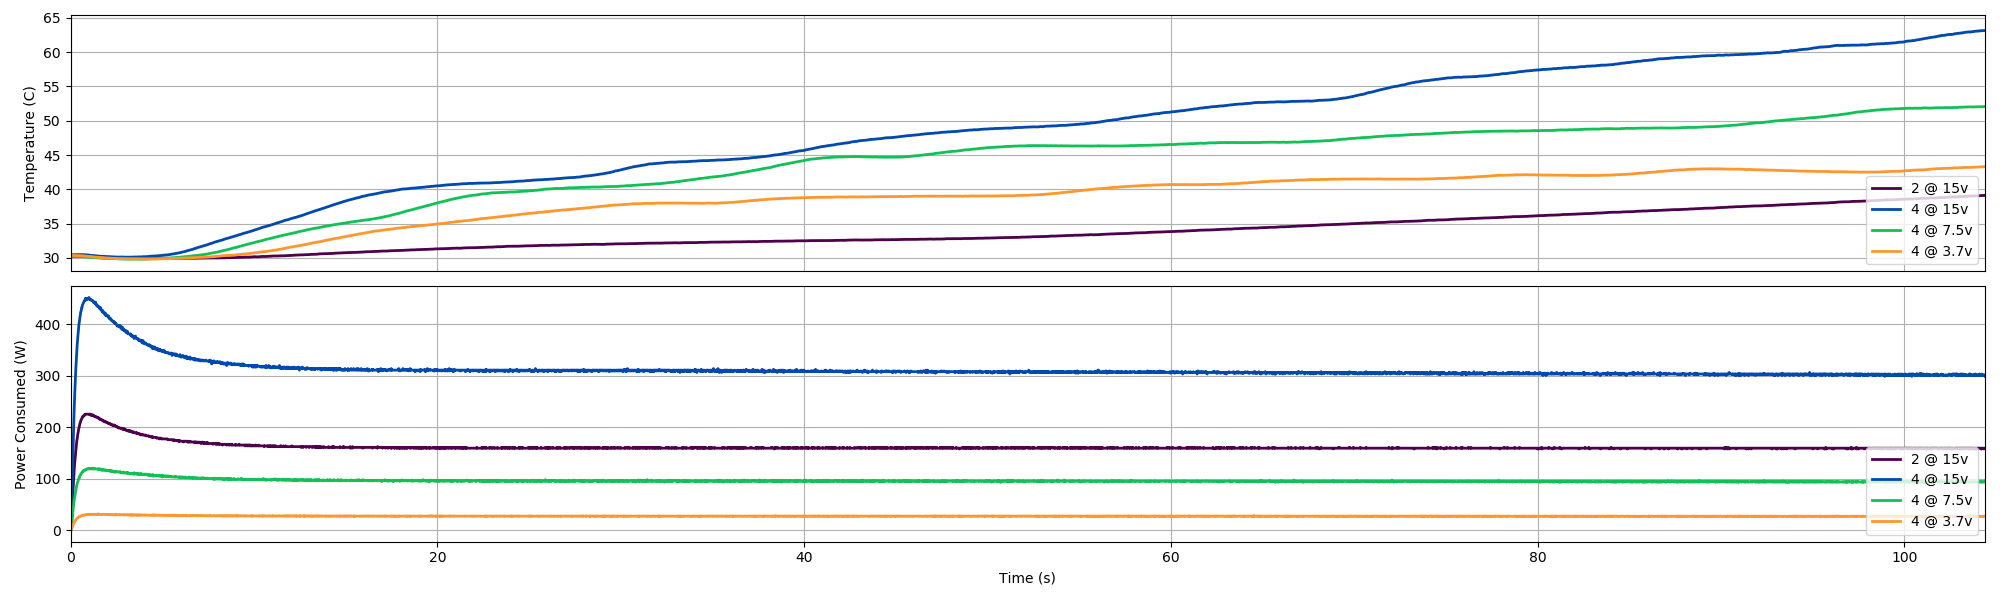
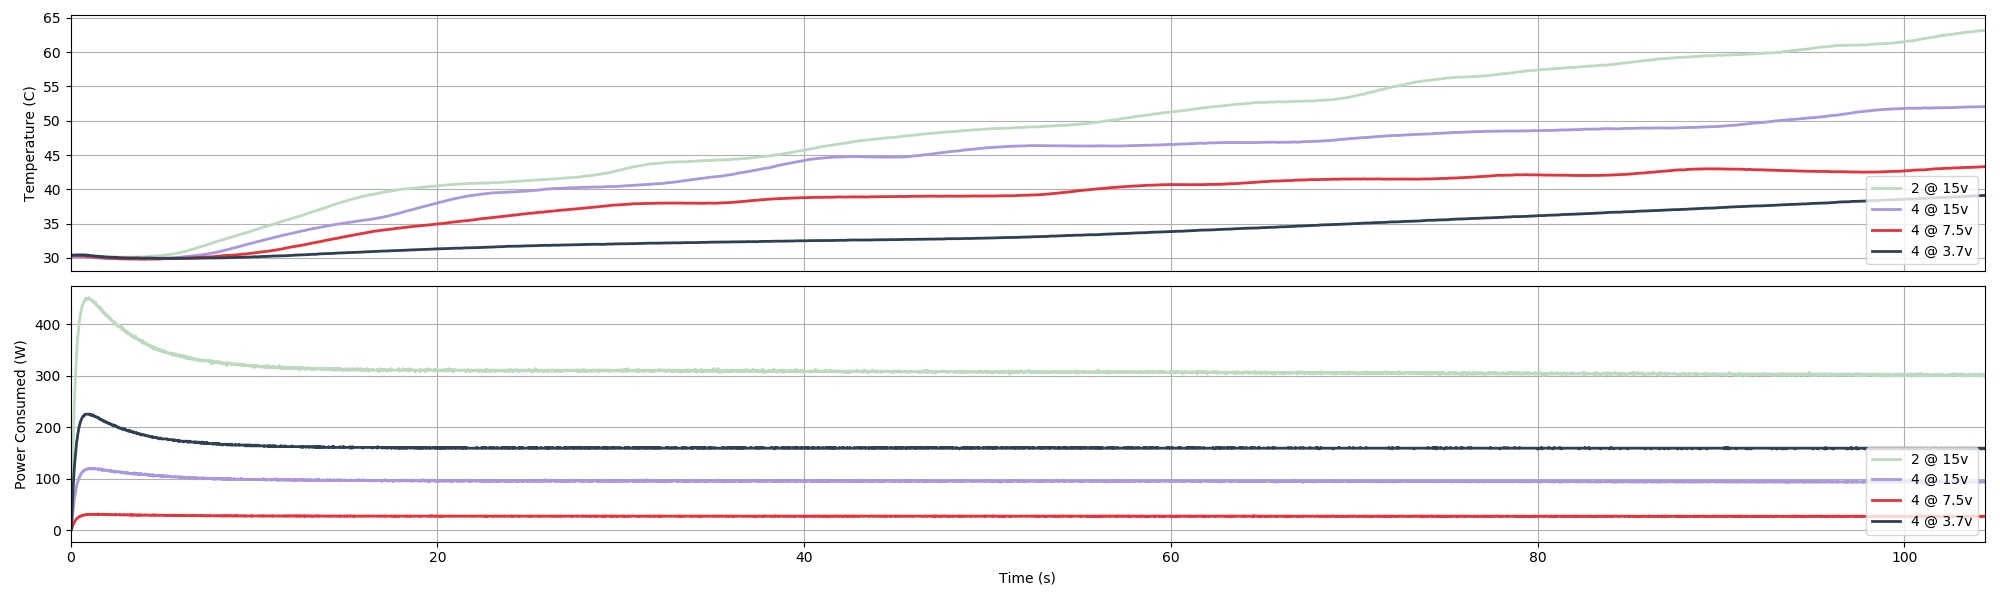
Updated colors

diff --git a/DataRecordingAndGraphing/EfficiencyData/DataGrapher.py b/DataRecordingAndGraphing/EfficiencyData/DataGrapher.py
@@ -129,19 +129,19 @@ times[3] = [t - startTime for t in times[3]] # move times to start time
 fig = plt.figure(figsize=(20, 6))
 tempPlot = fig.add_subplot(211)
 signalPlot = fig.add_subplot(212)
-tempPlot.plot(times[0], numData[0][0], c = "#4E004D", linewidth = 2.0)
-tempPlot.plot(times[1], numData[1][0], c = "#0049AE", linewidth = 2.0)
-tempPlot.plot(times[2], numData[2][0], c = "#11C155", linewidth = 2.0)
-tempPlot.plot(times[3], numData[3][0], c = "#FF972E", linewidth = 2.0)
+tempPlot.plot(times[1], numData[1][0], c = "#BDD9BF", linewidth = 2.0)
+tempPlot.plot(times[2], numData[2][0], c = "#A997DF", linewidth = 2.0)
+tempPlot.plot(times[3], numData[3][0], c = "#E5323B", linewidth = 2.0)
+tempPlot.plot(times[0], numData[0][0], c = "#2E4052", linewidth = 2.0)
 tempPlot.axis([0, endTime - startTime, None, None])
 tempPlot.set_ylabel("Temperature (C)")
 tempPlot.tick_params( axis='x', which='both', bottom=False, top=False, labelbottom=False)
 tempPlot.legend(("2 @ 15v", "4 @ 15v", "4 @ 7.5v", "4 @ 3.7v"), loc="lower right")
 tempPlot.grid(linestyle="-")
-signalPlot.plot(times[0], [numData[0][1][i] * numData[0][2][i] for i in range(len(numData[0][0]))], c = "#4E004D", linewidth = 2.0)
-signalPlot.plot(times[1], [numData[1][1][i] * numData[1][2][i] for i in range(len(numData[1][0]))], c = "#0049AE", linewidth = 2.0)
-signalPlot.plot(times[2], [numData[2][1][i] * numData[2][2][i] for i in range(len(numData[2][0]))], c = "#11C155", linewidth = 2.0)
-signalPlot.plot(times[3], [numData[3][1][i] * numData[3][2][i] for i in range(len(numData[3][0]))], c = "#FF972E", linewidth = 2.0)
+signalPlot.plot(times[1], [numData[1][1][i] * numData[1][2][i] for i in range(len(numData[1][0]))], c = "#BDD9BF", linewidth = 2.0)
+signalPlot.plot(times[2], [numData[2][1][i] * numData[2][2][i] for i in range(len(numData[2][0]))], c = "#A997DF", linewidth = 2.0)
+signalPlot.plot(times[3], [numData[3][1][i] * numData[3][2][i] for i in range(len(numData[3][0]))], c = "#E5323B", linewidth = 2.0)
+signalPlot.plot(times[0], [numData[0][1][i] * numData[0][2][i] for i in range(len(numData[0][0]))], c = "#2E4052", linewidth = 2.0)
 signalPlot.axis([0, endTime - startTime, None, None])
 signalPlot.set_xlabel("Time (s)")
 signalPlot.set_ylabel("Power Consumed (W)")
